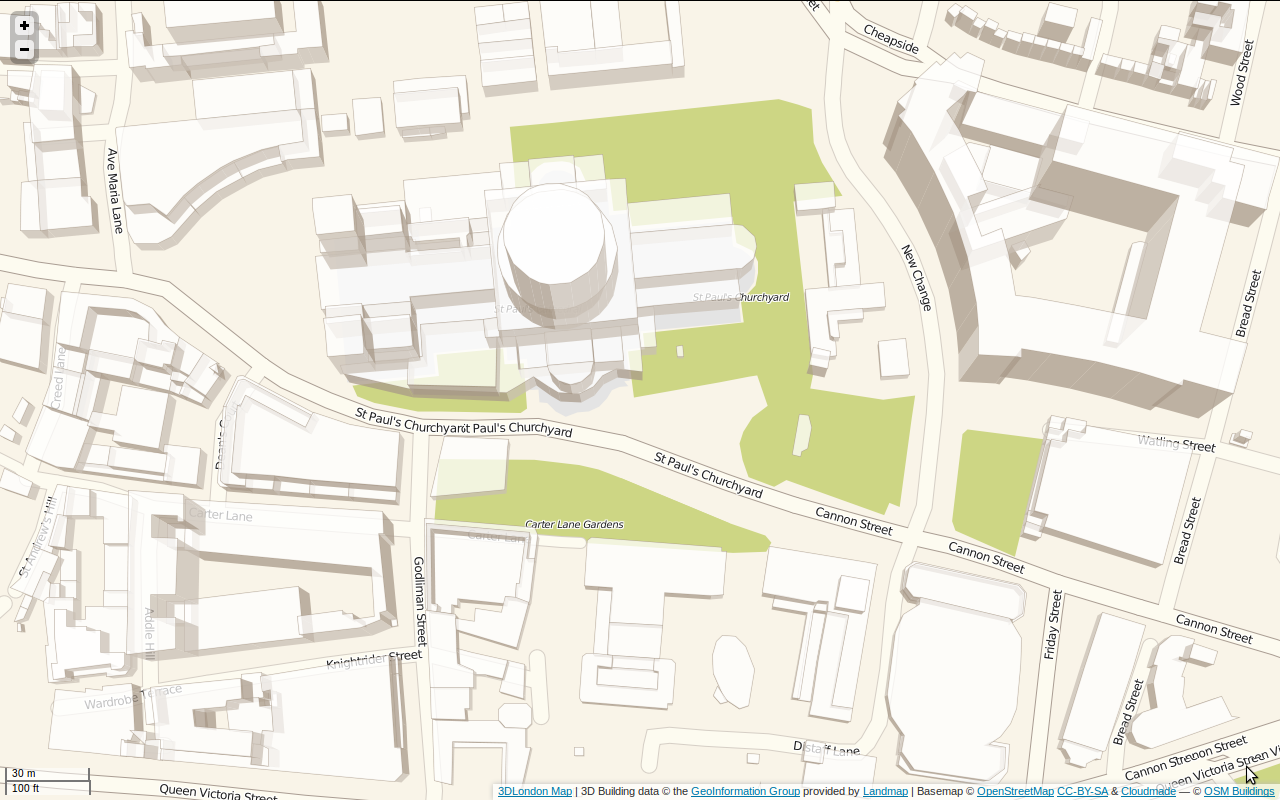
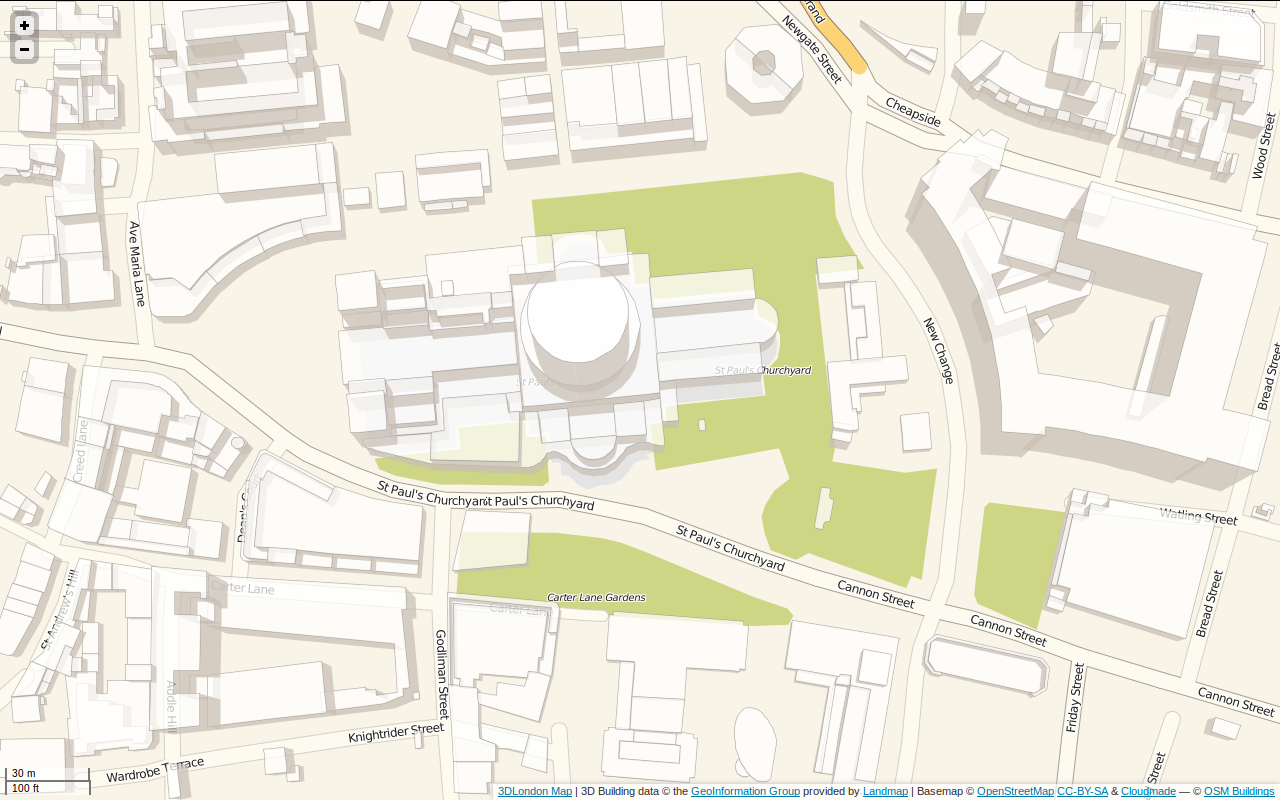
Now pointing to latest stable version of OSM buildings.

diff --git a/map.htm b/map.htm
@@ -22,8 +22,8 @@
 	<!--Leaflet map library (hosted version)-->
 	<script src="http://cdn.leafletjs.com/leaflet-0.4.5/leaflet.js"></script>
 
-	<!--OSM Buildings library development-->
-	<script src="http://osmbuildings.org/js/L.BuildingsLayer.js"></script>
+	<!--OSM Buildings library-->
+	<script src="https://raw.github.com/kekscom/osmbuildings/v0.1.7a/dist/L.BuildingsLayer.js"></script>
 
 	<!--Styles and CSS-->
 	<link rel="stylesheet" href="http://cdn.leafletjs.com/leaflet-0.4.5/leaflet.css"/>
